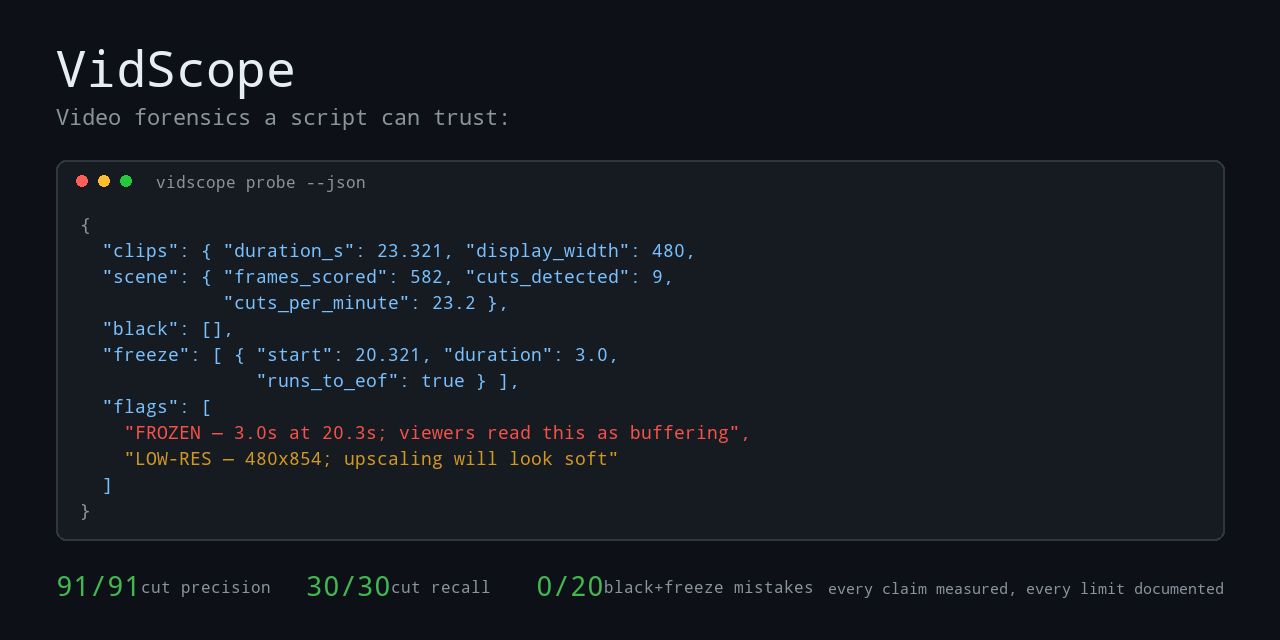
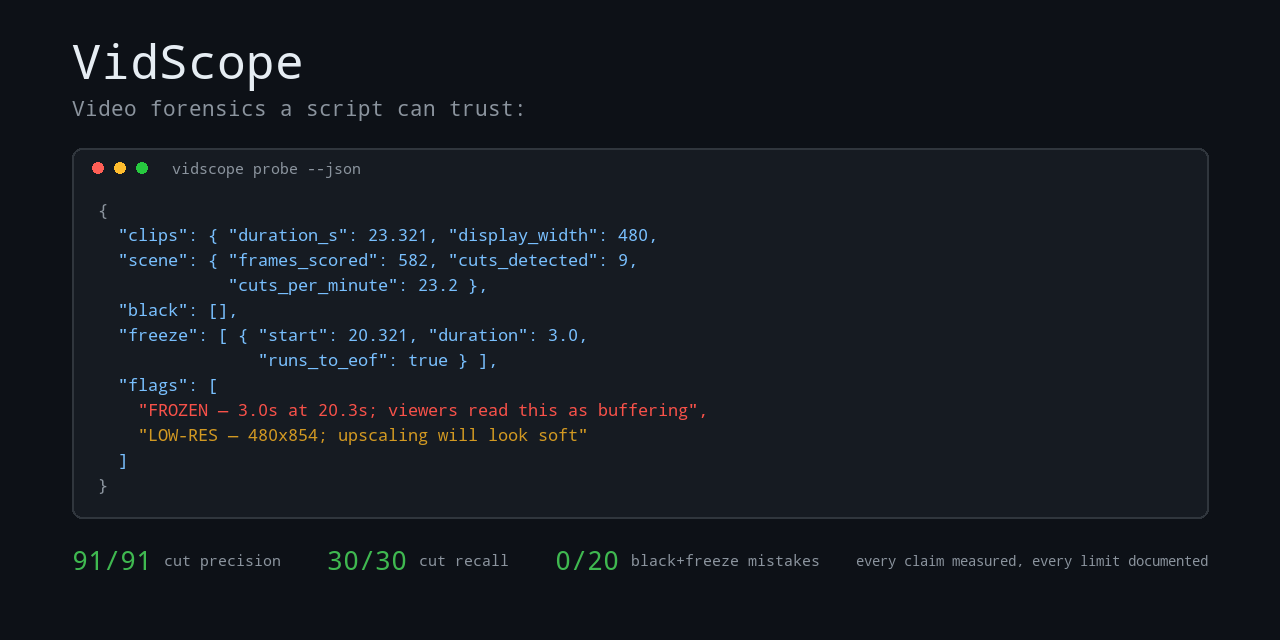
docs: fix social preview overlap and crop margin
Two real bugs in the card, both shipped to main before being caught.

1. The tagline overlapped the last stat by 23px. The label offsets used a
   magic 1.55 multiplier instead of measuring the number's width, so the
   groups drifted right as the numbers widened. All x positions are now
   computed with getlength() and the tagline is asserted to clear the last
   stat by at least 36px. Verified the assertion bites: restoring the old
   formula fails it with a -56px gap.

2. GitHub's preview box centre-crops on narrow viewports, and the left
   margin was thin enough that the VidScope title was cut off entirely.
   Outer padding raised 56 -> 72px.

Also worth recording: a vision check of the previous version reported 'no
collision, sufficient padding'. It was wrong. The overlap is subtle at
small scale and getlength() found it in one measurement. Geometry
assertions run before drawing; eyeballing the render does not replace them.

diff --git a/scripts/make_social_preview.py b/scripts/make_social_preview.py
@@ -5,8 +5,16 @@
 and REAL probe output from a real clip (not a mockup). The FROZEN and LOW-RES
 flags are the point: the product is the output, so the output is the subject.
 
-Layout is computed and asserted before drawing, because the first attempt
-overflowed its panel by 240px and overlapped the accuracy strip.
+Every x position is measured with getlength() rather than estimated, and the
+layout is asserted before drawing. Two earlier versions shipped real bugs:
+  v1 overflowed the code panel by 240px and ran through the accuracy strip.
+  v2 used a magic 1.55 multiplier for label offsets, which put the tagline
+     23px INSIDE the last stat. A vision check said "no collision" because
+     the overlap is subtle at small scale; getlength() said otherwise.
+Trust the measurement, not the eyeball.
+
+Also keeps the left margin thick: GitHub's preview box crops/zooms the image
+on narrow viewports, and the first version lost the "VidScope" title.
 """
 import pathlib
 
@@ -26,81 +34,126 @@ CYAN = (121, 192, 255)
 FONT = "/system/fonts/DroidSansMono.ttf"
 OUT = pathlib.Path.home() / "repos/vidscope/docs/social-preview.png"
 
-PAD = 56
-PX, PY, PW, PH = PAD, 160, W - 2 * PAD, 380
-CODE_FS = 18
-LH = 26
-CODE_TOP = PY + 54
+# Thick left margin so a centre-crop on mobile still shows the title.
+PAD = 72
+
+# ---- header ----
+HEAD_Y = 34
+TITLE_FS = 48
+SUB_Y = 96
+SUB_FS = 21
+
+# ---- code panel ----
+PX = PAD
+PY = 148
+PW = W - 2 * PAD
+CODE_FS = 17
+LH = 25
+CODE_PAD_L = 26
+CODE_TOP = PY + 52
+
+LINES = [
+    ('{',                                                          MUTED, 0),
+    ('  "clips": { "duration_s": 23.321, "display_width": 480,',   CYAN, 0),
+    ('  "scene": { "frames_scored": 582, "cuts_detected": 9,',     CYAN, 0),
+    ('             "cuts_per_minute": 23.2 },',                    CYAN, 0),
+    ('  "black": [],',                                             CYAN, 0),
+    ('  "freeze": [ { "start": 20.321, "duration": 3.0,',          CYAN, 0),
+    ('                "runs_to_eof": true } ],',                   CYAN, 0),
+    ('  "flags": [',                                               CYAN, 0),
+    ('    "FROZEN — 3.0s at 20.3s; viewers read this as buffering",', RED, 0),
+    ('    "LOW-RES — 480x854; upscaling will look soft"',          AMBER, 0),
+    ('  ]',                                                        CYAN, 0),
+    ('}',                                                          MUTED, 0),
+]
+
+PH = CODE_TOP - PY + len(LINES) * LH + 18
+
+# ---- accuracy strip ----
+STATS = [
+    ("91/91", "cut precision"),
+    ("30/30", "cut recall"),
+    ("0/20",  "black+freeze mistakes"),
+]
+STAT_FS = 27
+LBL_FS = 15
+TAIL_FS = 14
+TAIL = "every claim measured, every limit documented"
+
+STRIP_Y = PY + PH + 26
+GUTTER = 46          # gap between stat groups
+TAIL_GAP = 36        # minimum gap before the tagline
 
 
 def font(s):
     return ImageFont.truetype(FONT, s)
 
 
-# Each tuple: (text, colour, x_indent). Condensed to what a viewer needs:
-# the flags carry the story, so the JSON above them is trimmed to 4 lines.
-LINES = [
-    ('{',                                            MUTED,  0),
-    ('  "clips": { "duration_s": 23.321, "display_width": 480,', CYAN, 0),
-    ('  "scene": { "frames_scored": 582, "cuts_detected": 9,',   CYAN, 0),
-    ('             "cuts_per_minute": 23.2 },',                  CYAN, 0),
-    ('  "black": [],',                                           CYAN, 0),
-    ('  "freeze": [ { "start": 20.321, "duration": 3.0,',        CYAN, 0),
-    ('                "runs_to_eof": true } ],',                 CYAN, 0),
-    ('  "flags": [',                                             CYAN, 0),
-    ('    "FROZEN — 3.0s at 20.3s; viewers read this as buffering",', RED, 0),
-    ('    "LOW-RES — 480x854; upscaling will look soft"',        AMBER, 0),
-    ('  ]',                                                      CYAN, 0),
-    ('}',                                                        MUTED, 0),
-]
+f_code, f_stat, f_lbl, f_tail = font(CODE_FS), font(STAT_FS), font(LBL_FS), font(TAIL_FS)
 
-f_code = font(CODE_FS)
+# ================= layout: measure, then assert =================
 
-# ---- geometry assertions BEFORE drawing ----
+# 1. code lines fit inside the panel
 code_bottom = CODE_TOP + len(LINES) * LH
-assert code_bottom <= PY + PH - 10, f"code overflows panel by {code_bottom-(PY+PH)}px"
+assert code_bottom <= PY + PH - 8, f"code overflows panel by {code_bottom-(PY+PH)}px"
 for txt, _, ind in LINES:
-    right = PX + 24 + ind + f_code.getlength(txt)
-    assert right <= PX + PW - 12, f"line too wide ({right:.0f} > {PX+PW-12}): {txt[:50]}"
+    right = PX + CODE_PAD_L + ind + f_code.getlength(txt)
+    assert right <= PX + PW - 14, f"line too wide ({right:.0f} > {PX+PW-14}): {txt[:44]}"
 
-STRIP_Y = PY + PH + 30
-assert STRIP_Y + 40 <= H - 10, "accuracy strip would fall off canvas"
+# 2. stat groups laid out left to right with a real gutter
+stat_x = []
+cx = PX
+for big, label in STATS:
+    stat_x.append(cx)
+    big_w = f_stat.getlength(big)
+    lbl_w = f_lbl.getlength(label)
+    # label sits just right of the big number, baseline-aligned
+    group_w = big_w + 12 + lbl_w
+    cx += group_w + GUTTER
 
-# ---- draw ----
+last_end = (stat_x[-1] + f_stat.getlength(STATS[-1][0]) + 12
+            + f_lbl.getlength(STATS[-1][1]))
+
+# 3. tagline must CL EAR the last stat, measured, not guessed
+tail_w = f_tail.getlength(TAIL)
+tail_x = W - PAD - tail_w
+gap = tail_x - last_end
+assert gap >= TAIL_GAP, (
+    f"tagline collides with last stat: gap {gap:.0f}px < {TAIL_GAP}px "
+    f"(last stat ends {last_end:.0f}, tagline starts {tail_x:.0f})")
+
+# 4. everything fits vertically
+assert STRIP_Y + 34 <= H - 8, f"strip overflows canvas ({STRIP_Y+34} > {H-8})"
+
+# ================= draw =================
 img = Image.new("RGB", (W, H), BG)
 d = ImageDraw.Draw(img)
 
-d.text((PAD, 40), "VidScope", font=font(50), fill=TEXT)
-d.text((PAD, 104), "Video forensics a script can trust:", font=font(22), fill=MUTED)
+d.text((PAD, HEAD_Y), "VidScope", font=font(TITLE_FS), fill=TEXT)
+d.text((PAD, SUB_Y), "Video forensics a script can trust:", font=font(SUB_FS), fill=MUTED)
 
 d.rounded_rectangle([PX, PY, PX + PW, PY + PH], radius=10,
                     fill=PANEL, outline=BORDER, width=2)
 for i, col in enumerate([(255, 95, 86), (255, 189, 46), (39, 201, 63)]):
-    d.ellipse([PX + 20 + i * 22, PY + 15, PX + 31 + i * 22, PY + 26], fill=col)
-d.text((PX + 100, PY + 13), "vidscope probe --json", font=font(16), fill=MUTED)
+    d.ellipse([PX + 20 + i * 22, PY + 14, PX + 31 + i * 22, PY + 25], fill=col)
+d.text((PX + 100, PY + 12), "vidscope probe --json", font=font(15), fill=MUTED)
 
 y = CODE_TOP
 for txt, col, ind in LINES:
-    d.text((PX + 24 + ind, y), txt, font=f_code, fill=col)
+    d.text((PX + CODE_PAD_L + ind, y), txt, font=f_code, fill=col)
     y += LH
 
-# ---- accuracy strip ----
-def stat(x, big, label):
-    d.text((x, STRIP_Y), big, font=font(28), fill=GREEN)
-    d.text((x + f_code.getlength(big) * 1.55, STRIP_Y + 8), label,
-           font=font(16), fill=MUTED)
+# stats, measured positions
+for (big, label), x in zip(STATS, stat_x):
+    d.text((x, STRIP_Y), big, font=f_stat, fill=GREEN)
+    d.text((x + f_stat.getlength(big) + 12, STRIP_Y + 8), label, font=f_lbl, fill=MUTED)
 
-stat(PAD,        "91/91", "cut precision")
-stat(PAD + 250,  "30/30", "cut recall")
-stat(PAD + 480,  "0/20",  "black+freeze mistakes")
-
-tail = "every claim measured, every limit documented"
-d.text((W - PAD - font(15).getlength(tail), STRIP_Y + 10), tail,
-       font=font(15), fill=MUTED)
+d.text((tail_x, STRIP_Y + 9), TAIL, font=f_tail, fill=MUTED)
 
 img.save(OUT, "PNG", optimize=True)
 size = OUT.stat().st_size
 print(f"wrote {OUT}")
 print(f"  {img.size[0]}x{img.size[1]}  {size/1024:.0f} KB  under1MB={size < 1024*1024}")
-print(f"  geometry: code_bottom={code_bottom} panel_bottom={PY+PH} strip={STRIP_Y}")
+print(f"  code_bottom={code_bottom}  panel_bottom={PY+PH}  strip_y={STRIP_Y}")
+print(f"  last stat ends {last_end:.0f}px, tagline starts {tail_x:.0f}px, gap {gap:.0f}px")
 print("  all assertions passed")
